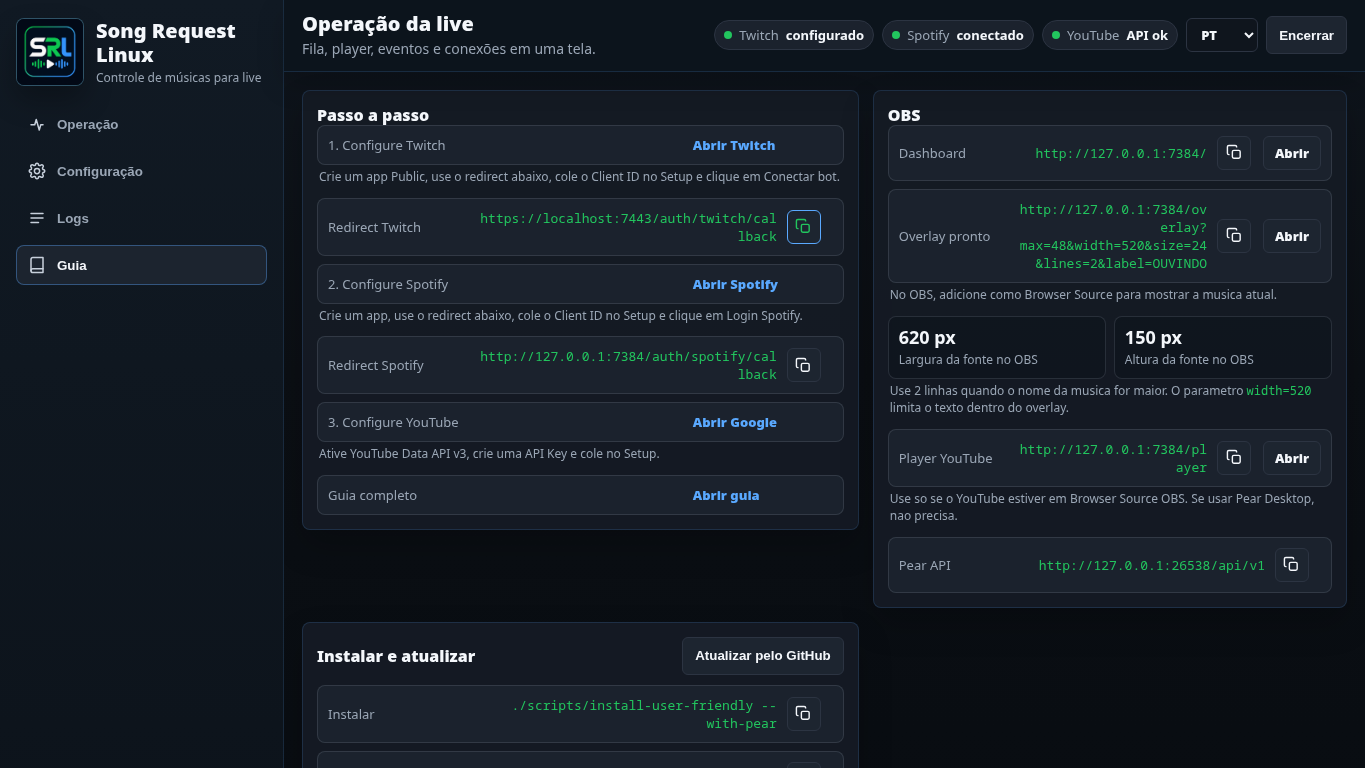
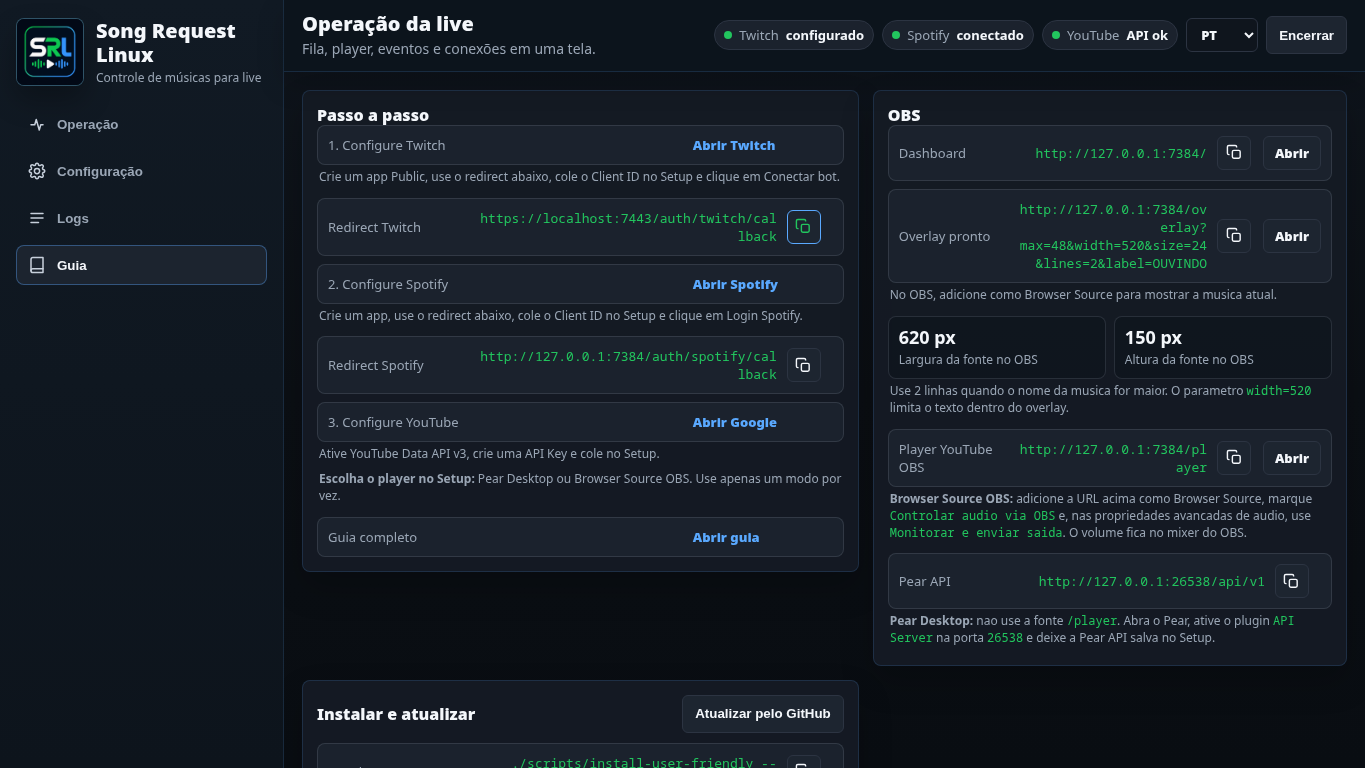
Clarify OBS Browser YouTube setup

diff --git a/src/dashboard.rs b/src/dashboard.rs
@@ -1284,6 +1284,7 @@ pub async fn page() -> Html<&'static str> {
             <div class="endpoint-row with-action"><span>Redirect Spotify</span><code>http://127.0.0.1:7384/auth/spotify/callback</code><button class="secondary icon-button copy-button" type="button" data-copy-value="http://127.0.0.1:7384/auth/spotify/callback" aria-label="Copiar" title="Copiar"><svg viewBox="0 0 24 24" aria-hidden="true"><rect x="9" y="9" width="11" height="11" rx="2"/><path d="M5 15H4a2 2 0 0 1-2-2V4a2 2 0 0 1 2-2h9a2 2 0 0 1 2 2v1"/></svg></button></div>
             <div class="endpoint-row"><span>3. Configure YouTube</span><a href="https://console.cloud.google.com/apis/credentials" target="_blank" rel="noreferrer">Abrir Google</a></div>
             <p class="endpoint-description">Ative YouTube Data API v3, crie uma API Key e cole no Setup.</p>
+            <p class="endpoint-description"><strong>Escolha o player no Setup:</strong> Pear Desktop ou Browser Source OBS. Use apenas um modo por vez.</p>
             <div class="endpoint-row"><span>Guia completo</span><a href="https://github.com/heyleao/song-request-linux/blob/main/docs/SETUP.md" target="_blank" rel="noreferrer">Abrir guia</a></div>
           </div>
         </section>
@@ -1298,9 +1299,10 @@ pub async fn page() -> Html<&'static str> {
               <div class="obs-size-card"><strong id="guide-overlay-height">120 px</strong><span>Altura da fonte no OBS</span></div>
             </div>
             <p class="endpoint-description">Use 2 linhas quando o nome da musica for maior. O parametro <code>width=520</code> limita o texto dentro do overlay.</p>
-            <div class="endpoint-row with-action"><span>Player YouTube</span><code>http://127.0.0.1:7384/player</code><button class="secondary icon-button copy-button" type="button" data-copy-value="http://127.0.0.1:7384/player" aria-label="Copiar" title="Copiar"><svg viewBox="0 0 24 24" aria-hidden="true"><rect x="9" y="9" width="11" height="11" rx="2"/><path d="M5 15H4a2 2 0 0 1-2-2V4a2 2 0 0 1 2-2h9a2 2 0 0 1 2 2v1"/></svg></button><a class="secondary" href="/player" target="_blank" rel="noreferrer">Abrir</a></div>
-            <p class="endpoint-description">Use so se o YouTube estiver em Browser Source OBS. Se usar Pear Desktop, nao precisa.</p>
+            <div class="endpoint-row with-action"><span>Player YouTube OBS</span><code>http://127.0.0.1:7384/player</code><button class="secondary icon-button copy-button" type="button" data-copy-value="http://127.0.0.1:7384/player" aria-label="Copiar" title="Copiar"><svg viewBox="0 0 24 24" aria-hidden="true"><rect x="9" y="9" width="11" height="11" rx="2"/><path d="M5 15H4a2 2 0 0 1-2-2V4a2 2 0 0 1 2-2h9a2 2 0 0 1 2 2v1"/></svg></button><a class="secondary" href="/player" target="_blank" rel="noreferrer">Abrir</a></div>
+            <p class="endpoint-description"><strong>Browser Source OBS:</strong> adicione a URL acima como Browser Source, marque <code>Controlar audio via OBS</code> e, nas propriedades avancadas de audio, use <code>Monitorar e enviar saida</code>. O volume fica no mixer do OBS.</p>
             <div class="endpoint-row with-action"><span>Pear API</span><code>http://127.0.0.1:26538/api/v1</code><button class="secondary icon-button copy-button" type="button" data-copy-value="http://127.0.0.1:26538/api/v1" aria-label="Copiar" title="Copiar"><svg viewBox="0 0 24 24" aria-hidden="true"><rect x="9" y="9" width="11" height="11" rx="2"/><path d="M5 15H4a2 2 0 0 1-2-2V4a2 2 0 0 1 2-2h9a2 2 0 0 1 2 2v1"/></svg></button></div>
+            <p class="endpoint-description"><strong>Pear Desktop:</strong> nao use a fonte <code>/player</code>. Abra o Pear, ative o plugin <code>API Server</code> na porta <code>26538</code> e deixe a Pear API salva no Setup.</p>
           </div>
         </section>
         <section>
@@ -1403,6 +1405,18 @@ pub async fn page() -> Html<&'static str> {
       'Salvar fallback': 'Save fallback',
       'YouTube: links e pedidos do YouTube': 'YouTube: links and YouTube requests',
       'Escolha onde o YouTube vai tocar: OBS Browser Source ou Pear Desktop.': 'Choose where YouTube plays: OBS Browser Source or Pear Desktop.',
+      'Escolha o player no Setup:': 'Choose the player in Setup:',
+      'Pear Desktop ou Browser Source OBS. Use apenas um modo por vez.': 'Pear Desktop or OBS Browser Source. Use only one mode at a time.',
+      'Player YouTube OBS': 'OBS YouTube player',
+      'Browser Source OBS:': 'OBS Browser Source:',
+      'adicione a URL acima como Browser Source, marque': 'add the URL above as a Browser Source, enable',
+      'e, nas propriedades avancadas de audio, use': 'and, in Advanced Audio Properties, use',
+      'O volume fica no mixer do OBS.': 'Volume is controlled in the OBS mixer.',
+      'Pear Desktop:': 'Pear Desktop:',
+      'nao use a fonte': 'do not use the',
+      'Abra o Pear, ative o plugin': 'Open Pear, enable the',
+      'na porta': 'plugin on port',
+      'e deixe a Pear API salva no Setup.': 'and keep the Pear API saved in Setup.',
       'Criar API Key': 'Create API key',
       'Player YouTube': 'YouTube player',
       'Pear API': 'Pear API',

diff --git a/docs/SETUP.md b/docs/SETUP.md
@@ -158,6 +158,16 @@ A busca por texto usa YouTube Data API e pode bater limite. Quando ha varias
 keys salvas, o app tenta a proxima se uma key falhar. Link direto do YouTube e o
 caminho mais leve para pedidos especificos.
 
+### Escolher onde o YouTube toca
+
+No Setup, o campo `Player YouTube` tem duas opcoes:
+
+- `Pear Desktop`: toca pelo app Pear e usa a API local do Pear.
+- `Browser Source OBS`: toca direto em uma fonte de navegador do OBS.
+
+Use apenas uma opcao por vez. Se escolher Pear, nao adicione o `/player` no OBS.
+Se escolher OBS Browser, mantenha a fonte `/player` aberta no OBS durante a live.
+
 ### Pear Desktop
 
 1. Abra o Pear Desktop.
@@ -204,8 +214,15 @@ Fonte de player YouTube:
 http://127.0.0.1:7384/player
 ```
 
-Use essa fonte so se o player do YouTube estiver como `Browser Source OBS`. Se
-voce usa Pear, normalmente nao precisa dela.
+Use essa fonte so se o player do YouTube estiver como `Browser Source OBS`.
+Se voce usa Pear Desktop, nao adicione essa fonte.
+
+Configuracao da fonte no OBS:
+
+1. Adicione uma nova `Browser Source`.
+2. Cole a URL `http://127.0.0.1:7384/player`.
+3. Marque `Controlar audio via OBS`.
+4. Mantenha a fonte ativa na cena da live.
 
 Para o streamer ouvir a musica do Browser Source:
 

diff --git a/docs/SETUP_EN.md b/docs/SETUP_EN.md
@@ -154,6 +154,16 @@ Text search uses the YouTube Data API and can hit quota limits. When multiple
 keys are saved, the app tries the next key if one fails. Direct YouTube links are
 the lighter path for exact requests.
 
+### Choose where YouTube plays
+
+In Setup, the `YouTube player` field has two options:
+
+- `Pear Desktop`: plays through Pear and uses Pear's local API.
+- `OBS Browser Source`: plays directly inside an OBS browser source.
+
+Use only one option at a time. If you choose Pear, do not add `/player` in OBS.
+If you choose OBS Browser, keep the `/player` source active in OBS during the stream.
+
 ### Pear Desktop
 
 1. Open Pear Desktop.
@@ -197,7 +207,15 @@ YouTube player source:
 http://127.0.0.1:7384/player
 ```
 
-Use this only if YouTube playback is set to `Browser Source OBS`. If you use Pear, you normally do not need it.
+Use this only if YouTube playback is set to `OBS Browser Source`.
+If you use Pear Desktop, do not add this source.
+
+OBS source setup:
+
+1. Add a new `Browser Source`.
+2. Paste `http://127.0.0.1:7384/player`.
+3. Enable `Control audio via OBS`.
+4. Keep the source active in your live scene.
 
 To let the streamer hear Browser Source music:
 

diff --git a/README.md b/README.md
@@ -186,7 +186,13 @@ http://127.0.0.1:7384/player
 ```
 
 Use o player OBS apenas se voce escolheu `Browser Source OBS` como player do
-YouTube. Se usa Pear, normalmente nao precisa dessa fonte.
+YouTube. Se usa Pear Desktop, nao adicione essa fonte.
+
+No OBS Browser Source:
+
+1. Cole `http://127.0.0.1:7384/player`.
+2. Marque `Controlar audio via OBS`.
+3. Mantenha a fonte ativa na cena.
 
 Para ouvir essa musica no fone do streamer:
 